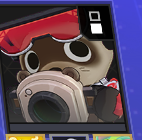
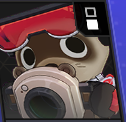
T-138 狸职狸狸单位建档:portrait_plaza 三目录模板落库(净艺术区+掩码新格式,狸小虎/狸小龙换新档)+roster 注册 cost=0 系统单位(狸职手续204001)

diff --git a/src/sr_od/application/currency_war/data/cw_chars.py b/src/sr_od/application/currency_war/data/cw_chars.py
@@ -181,6 +181,12 @@ CHARACTERS: dict[str, Character] = {c.name: c for c in [
     # → 无官方 art,模板=现场采集 portrait_plaza/佩佩/raw.png,2026-08-26 佩佩局实拍)。
     # cost=0 系统单位:恒最右、不可拖/不可卖(同狸猫对);无阵营无流派(增益挂件)。
     _ch("佩佩", 0, "back", "", "", "", source="live:招财狗/溜佩佩族召唤"),
+    # 狸职狸狸(投资策略「狸职手续」(id 204001):获得 3 个穿 1 件简易装备的【狸狸】;
+    # 2026-09-12 实机 1-3 备战帧实拍:浮窗名=狸职狸狸/后台,三只各带 1 件装备恒占最右格,
+    # 与 cw_identity_obs 系统单位恒最右模型吻合)。cost=0 系统单位(同狸猫对);
+    # 无阵营无流派。识别注意:与蓝/红狸同造型,灰度 SIFT 会互撞——已落同规格模板
+    # portrait_plaza/狸职狸狸(净艺术区+掩码)消除。
+    _ch("狸职狸狸", 0, "back", "", "", "", source="live:狸职手续204001"),
 ]}
 
 # 规范名集合(从 CHARACTERS 派生;供 COMP_LIBRARY.core_chars / config.character_priority 校验)
